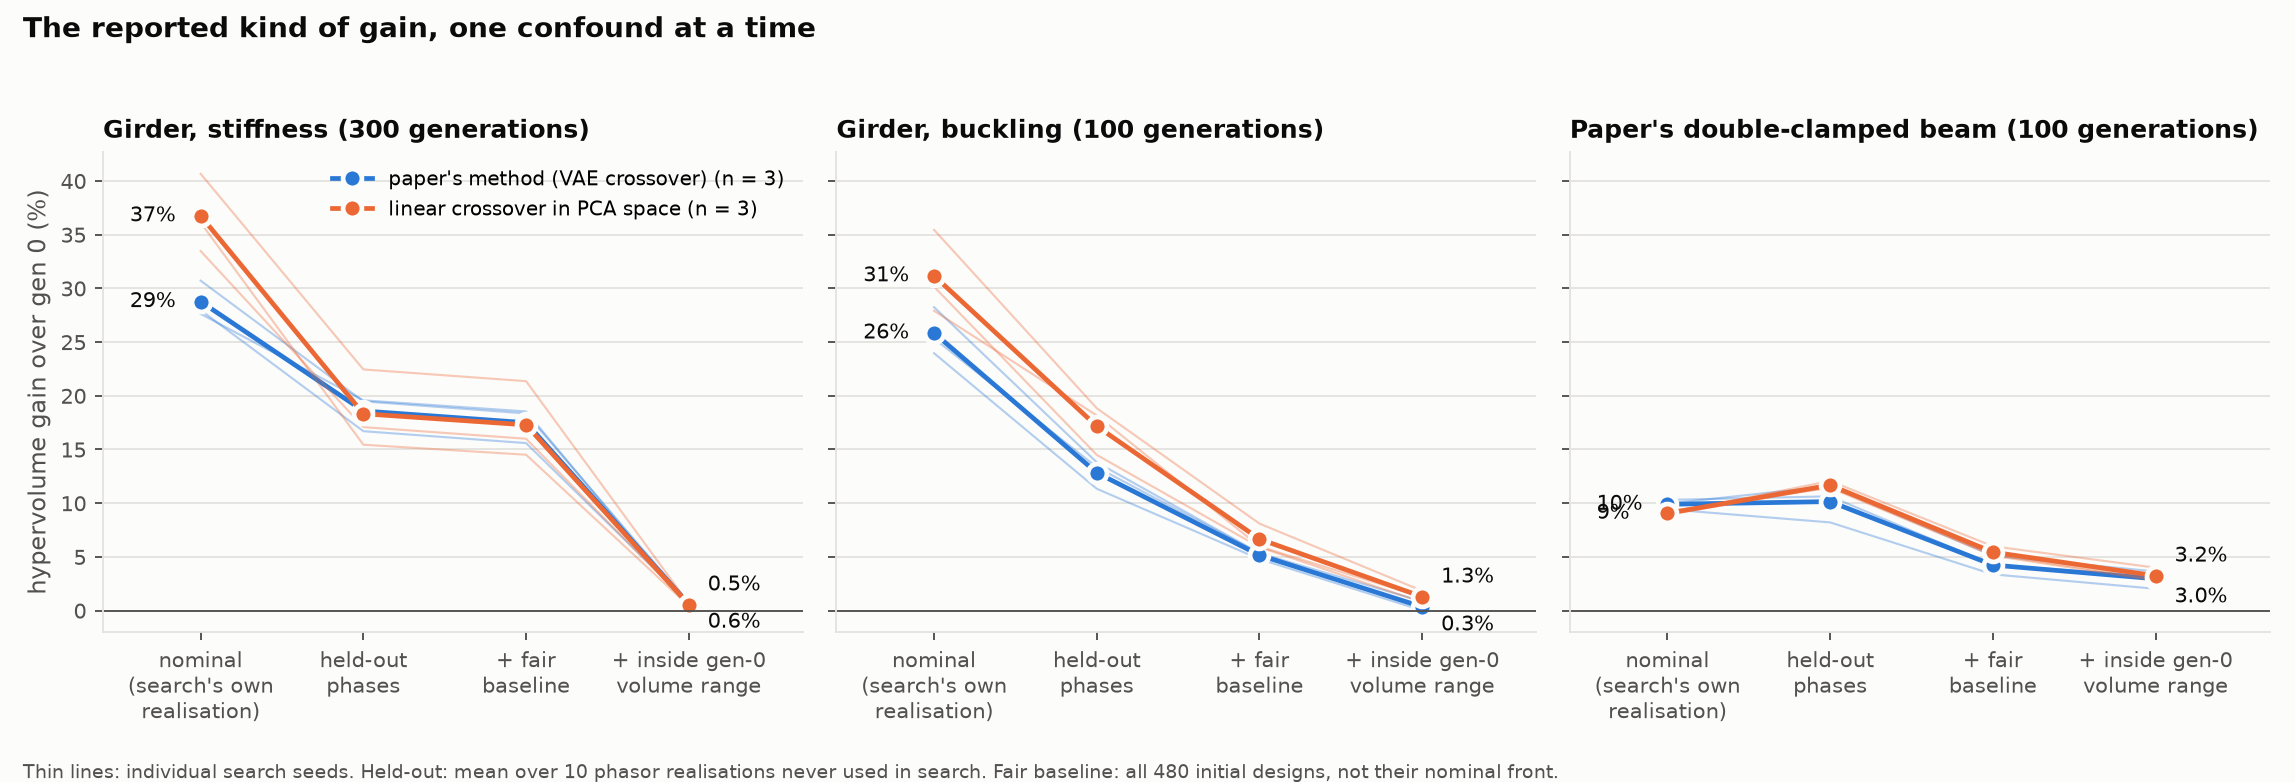
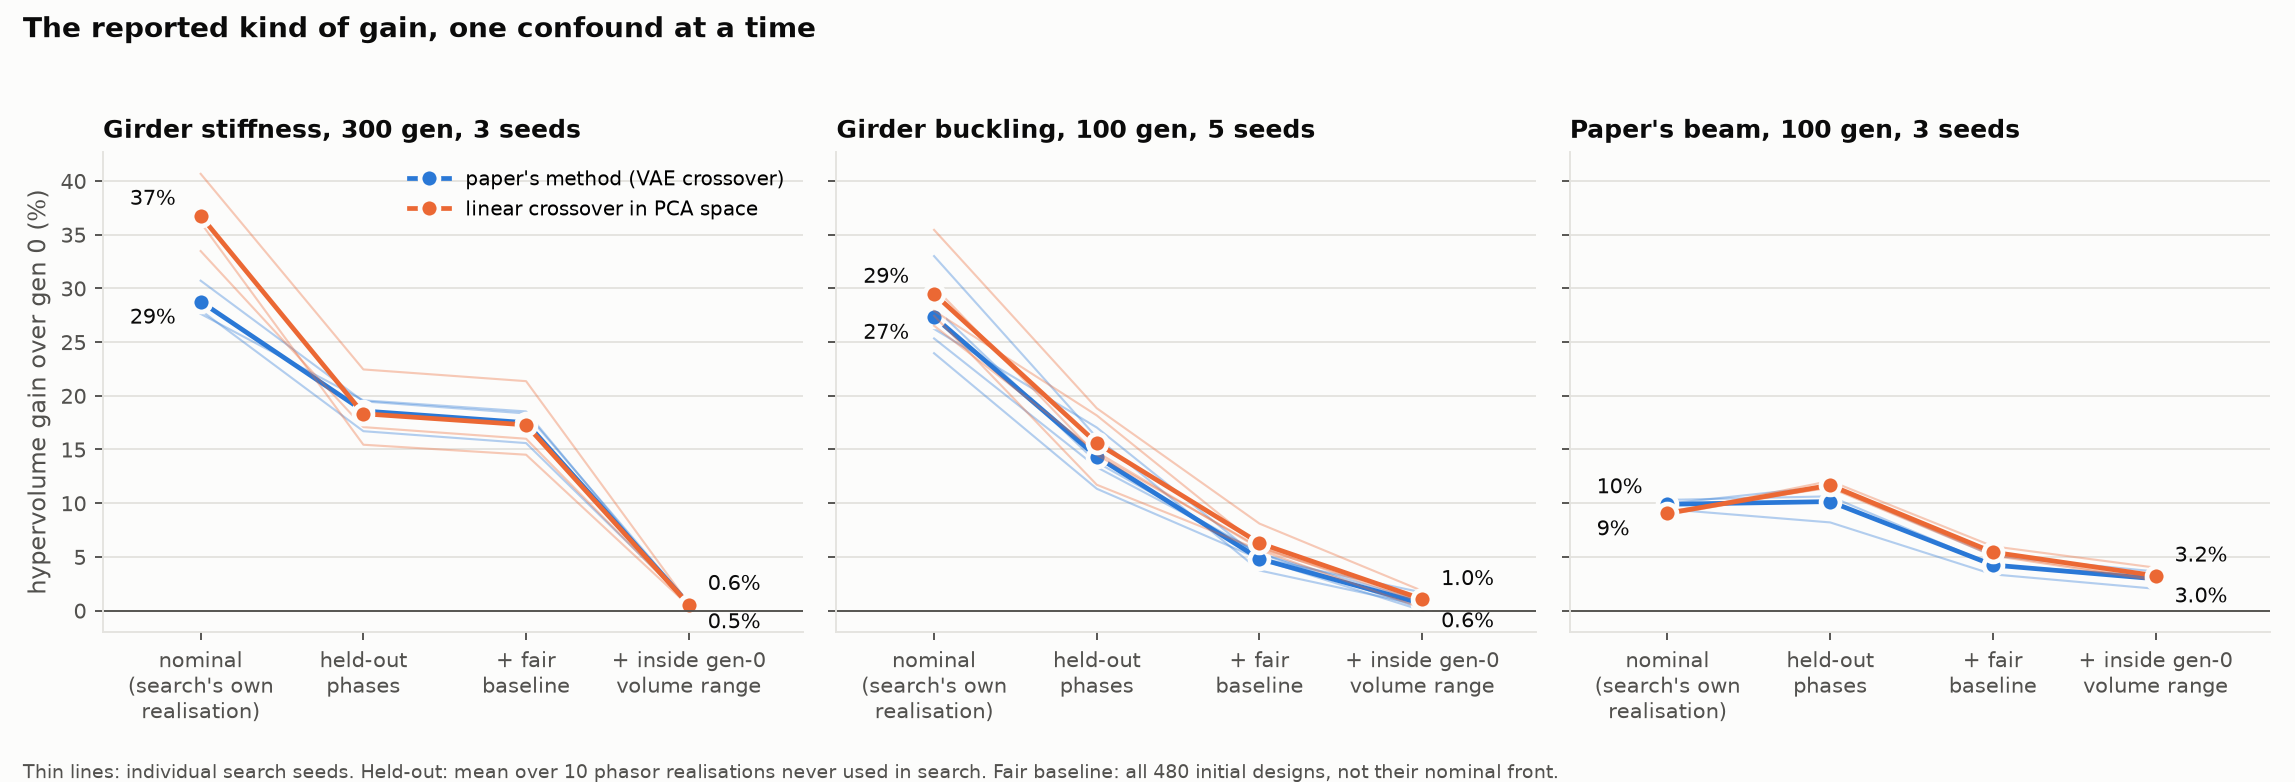
trial 14 done: README (results, interpretation, diagnostics), final figures, index

diff --git a/experiments/2026-11-17-dehom-ea-followups/fig_decomposition.py b/experiments/2026-11-17-dehom-ea-followups/fig_decomposition.py
@@ -12,14 +12,19 @@ LAB = {"FULL": "paper's method (VAE crossover)", "PCA": "linear crossover in PCA
 STAGES = ["nominal", "ho_front", "ho_all", "ho_all_inrng"]
 XT = ["nominal\n(search's own\nrealisation)", "held-out\nphases", "+ fair\nbaseline", "+ inside gen-0\nvolume range"]
 rows = json.load(open("results/decomposition.json"))
-blocks = [("Girder, stiffness (300 generations)", "stiff", 300, [0, 1, 2]),
-          ("Girder, buckling (100 generations)", "buck", 100, [0, 1, 2, 3, 4]),
-          ("Paper's double-clamped beam (100 generations)", "umax", 100, [0, 1, 2])]
+blocks = [("Girder stiffness, 300 gen", "stiff", 300, [0, 1, 2]),
+          ("Girder buckling, 100 gen", "buck", 100, [0, 1, 2, 3, 4]),
+          ("Paper's beam, 100 gen", "umax", 100, [0, 1, 2])]
 fig, axs = plt.subplots(1, 3, figsize=(13.5, 4.6), sharey=True)
 x = np.arange(len(STAGES))
 for ax, (title, obj, gen, seeds) in zip(axs, blocks):
     ax.set_facecolor(SURF)
+    means = {}
     for arm in ("FULL", "PCA"):
+        Rm = [r for r in rows if r["run"] in [f"{obj}_{arm}_s{s}" for s in seeds] and r["gen"] == gen]
+        means[arm] = np.mean([[100 * r[s] for s in STAGES] for r in Rm], axis=0)
+    for arm in ("FULL", "PCA"):
+        other = "PCA" if arm == "FULL" else "FULL"
         R = [r for r in rows if r["run"] in [f"{obj}_{arm}_s{s}" for s in seeds] and r["gen"] == gen]
         if not R:
             continue
@@ -27,13 +32,14 @@ for ax, (title, obj, gen, seeds) in zip(axs, blocks):
         for y in Y:
             ax.plot(x, y, color=COL[arm], lw=0.9, alpha=0.35)
         m = Y.mean(0)
-        ax.plot(x, m, color=COL[arm], lw=2, marker="o", ms=8, mec=SURF, mew=2, label=f"{LAB[arm]} (n = {len(R)})")
-        ax.annotate(f"{m[-1]:.1f}%", (x[-1], m[-1]), xytext=(8, 6 if arm == "PCA" else -10), textcoords="offset points",
+        ax.plot(x, m, color=COL[arm], lw=2, marker="o", ms=8, mec=SURF, mew=2, label=LAB[arm])
+        nseed = len(R)
+        ax.annotate(f"{m[-1]:.1f}%", (x[-1], m[-1]), xytext=(8, 6 if means[arm][-1] >= means[other][-1] else -10), textcoords="offset points",
                     fontsize=9, color=INK)
-        ax.annotate(f"{m[0]:.0f}%", (x[0], m[0]), xytext=(-30, 0), textcoords="offset points", fontsize=9, color=INK, va="center")
+        ax.annotate(f"{m[0]:.0f}%", (x[0], m[0]), xytext=(-30, 7 if means[arm][0] >= means[other][0] else -7), textcoords="offset points", fontsize=9, color=INK, va="center")
     ax.axhline(0, color=INK2, lw=0.8)
     ax.set_xticks(x); ax.set_xticklabels(XT, fontsize=8.5, color=INK2)
-    ax.set_title(title, loc="left", fontsize=10.5, fontweight="bold", color=INK)
+    ax.set_title(f"{title}, {nseed} seeds", loc="left", fontsize=10.5, fontweight="bold", color=INK)
     for s in ("top", "right"):
         ax.spines[s].set_visible(False)
     for s in ("left", "bottom"):

diff --git a/experiments/2026-11-17-dehom-ea-followups/README.md b/experiments/2026-11-17-dehom-ea-followups/README.md
@@ -2,62 +2,63 @@
 kind: experiment
 slug: "dehom-ea-followups"
 date: "2026-11-17"
-status: running     # running | done | abandoned
-hypothesis: ""
-result: ""
-related_concepts: []
-related_literature: []
-tags: []
-# members: only set when kind: ensemble — list parent experiment slugs.
-# parent:  only set when this experiment was produced via /expand.
+status: done
+hypothesis: "Follow-ups to trial 13 under a clean evaluator and held-out-realisation grading (PREREGISTRATION.md H1–H9 + Addenda A, B): does the evolutionary de-homogenisation gain (Xu et al. 2026) survive held-out phasor realisations, a fair baseline and front-extension controls; does the paper's VAE crossover beat linear PCA crossover; do latent size, encoding, robust selection or a lottery null change the picture; and how do the lattices compare with SIMP — on the girder (compliance, buckling) and the paper's own double-clamped beam."
+result: "The EA improves held-out hypervolume on every seed and problem (H1 pass), but most of the reported-style gain is not design improvement: nominal gains of 27–37 % (girder) fall to 0.5–1.0 % in-range once held-out realisations, a full-population baseline and the volume range are controlled; at matched volume the EA lowers compliance 2–9 %, raises BLF ≤ 2 %, beam displacement 1–2 %, and its low-volume extension is matched by running the LF optimiser at lower targets. The paper's VAE and linear PCA crossover are indistinguishable held-out on every block (H2), though PCA leads nominally by 5–9 pp; latent size and raw-θ encoding don't matter (H3); robust selection gives nothing (H5); SIMP beats the best lattice at every graded volume in compliance and BLF (H7). Before any run, trial 13's evaluator noise was traced to our decoder (θ/θ+π tie), fixed; evaluator 10× faster."
+related_concepts: ["physics-grounded-evaluation", "agentic-design-optimization"]
+related_literature: ["xu2025evolutionary", "woldseth2024dehomtop808"]
+tags: ["topology-optimization", "dehomogenization", "replication", "held-out", "winner's-curse", "hypervolume", "trial-14"]
 ---
 
-# dehom-ea-followups
+# dehom-ea-followups (trial 14)
 
-## Hypothesis
+Pre-registration `PREREGISTRATION.md` (frozen before any arm; Addendum A budget, Addendum B post-hoc and
+declared). Chronology and every decision: `log.md`. Interim brief: `RESULTS_INTERIM.md`. Paper skeleton:
+`docs/paper/outline.md` + `docs/paper/figs/`. Companion: `experiments/2026-11-17-dehom-dcbeam/` (the paper's beam).
 
-State precisely what you expect, before running anything.
+## Setup changes vs trial 13
+- Decoder fix (θ vs θ + π tie → realisation chosen by rounding; ~9 % per-design evaluator noise; found by a
+  2×2: deHomTop808's algorithm is stable on raw fields, our encoding was not).
+- Evaluator: factorise once (pypardiso refactorised every eigsh iteration) + solid-only system (no ersatz
+  void): 10× faster; CalculiX spot-check ρ = 0.991 / 0.992 on 30 trial-14 front designs.
+- Primary metric: held-out HV over 10 phasor seeds never used in search.
 
-## Setup
+## Result (results/heldout_summary.json, decomposition.json, paired_stats.json, paper_tables.json)
 
-- Config: `config.yaml`
-- Code: (entry point)
-- Data: (DVC-tracked path, validation split only during search)
+| | verdict | evidence |
+|---|---|---|
+| H1 EA gain > 0 held-out | PASS | girder S +16.7–19.6 % (gen 300), B +11.3–18.8 %, beam +8.2–12.1 % |
+| H2 VAE vs PCA | no difference (4/4 blocks) | S gen 300 d = −0.3 pp [−7.4, 6.9]; S gen 100 (n = 5) +0.8 [−2.2, 3.7]; B (n = 5) +1.3 [−4.7, 7.3]; beam +1.5 [−2.6, 5.6] |
+| H3 latent / encoding | "artefact" (rule) | VAE32 18.1, VAE64 13.5, RAWTH 17.8 vs PCA 15.3 % (gen 100, s0–s1) |
+| H4 search > lottery | PASS (primary) | LOTTERY 5.0 % vs ~15–16 %; in range LOTTERY 0.3 % vs search 0.4–0.7 % (Addendum B) |
+| H5 robust selection | no difference | ROB3 12.8 / 15.5 % vs PCA 22.4 / 15.4 % at 33 000 evals |
+| H6 novelty, H9 LLM pilot | cut (Addendum B) | — |
+| H7 lattice vs SIMP | SIMP wins | compliance 4/4, BLF 4/4 at vf 0.30–0.45 |
+| H8 beam | H1 PASS, H2 no difference | see H1/H2 |
 
-## Result
-
-Fill in after the run. Point at `metrics.json` (validation split — this
-is the search signal and the file every other skill reads). A separate
-`final_metrics.json` holds held-out test-split numbers and is written
-only by the `dvc repro final_eval` pass at chain end. See
-`~/.claude/rules/evaluation.md`.
+Addendum B decomposition (girder S / B / beam, mean of arms): nominal 29–37 / 27–29 / 9–10 % → held-out
+18 / 14–16 / 10–12 % → fair baseline 17 / 5–6 / 4–5 % → in range 0.5–0.6 / 0.6–1.0 / 3.0–3.2 %.
+Matched-volume attainment in range: S 0.91–0.98, B 0.98–1.00, beam 0.98–0.99. Extension vs LF at
+V0 0.10–0.25: median ratio ~1.1 (S), ~1.1 (B), 0.95–0.99 (beam). Winner's curse (median optimism of the
+reported front): S gen-0 ×1.08, FULL ×1.28, PCA ×1.41; B ×1.40 / 1.68 / 1.92; beam ≈ ×1.05–1.10; the
+same under translation-only realisations.
 
 ## Interpretation
-
-What did you actually learn? What surprised you?
+- The search is real (beats a lottery and a no-selection null) but small at matched volume; the
+  headline-style HV gain is mostly (i) fitting the single phasor realisation the search sees, (ii) a
+  baseline selected on that realisation, (iii) extension below the initial population's volume range.
+- Operator conclusions drawn from nominal HV can be wrong: trial 13's "VAE hurts" was PCA mining
+  realisation luck more effectively (higher optimism, 16 % of its front disconnects under re-draws).
+- The beam is barely realisation-sensitive (optimism ~×1.05), the girder strongly — the size of the
+  winner's curse is problem-dependent.
 
 ## Diagnostics
-
-Fill in after the run. One line per field; leave `n/a` rather than
-blank. `next_candidates` must list ≥2 concrete one-sentence proposals.
-Every concrete claim below needs a **citation anchor** — a code
-reference like `train.py:42-58`, a metrics file path like
-`metrics.json:val_acc`, or a wikilink into `literature/`. Unanchored
-assertions are flagged by `/lint` (Kosmos, arXiv 2511.02824).
-
-Unless otherwise noted, metric numbers here reference `metrics.json`
-(validation split). Cite `final_metrics.json` only if this experiment
-is itself the final-scoring pass.
-
-- intended_effect_confirmed: <yes | no | partial> — <one-line evidence with anchor>
-- leakage_check: <method used> — <finding>
-- overfitting_signal: train=<x> val=<y> gap=<z> — <interpretation> (from metrics.json)
-- delta_from_prior: vs <related_prior_slug>, <metric_delta> attributed to <cause> (metrics.json)
-- unexpected_findings: <one or two sentences, or "none">
+- intended_effect_confirmed: partial — H1 yes; the paper's operator claims not supported (`results/paired_stats.json`)
+- leakage_check: held-out seeds 5000–5009 never used in search (`heldout.py:HELDOUT_SEEDS`, `run_arm.py` uses phase_seed=None or random ROB3 seeds); evaluator hashes logged at freeze (`log.md` 18:30)
+- overfitting_signal: held-out/nominal ratio 0.38–0.71 on the girder (`results/heldout_summary.json`); per-design optimism p90 up to ×37 (`results/paper_tables.json:fig5_optimism`)
+- delta_from_prior: vs trial 13, "VAE hurts −10 pp" reversed to no difference once graded held-out (`results/paired_stats.json`); evaluator noise from the decoder bug removed (`scratch/diag2x2.json`)
+- unexpected_findings: the initial population's own nominal front is winner's-cursed (buckling ×1.40); one-pixel-neck artefacts recur in evolved buckling fronts (`results/ccx_spot.json`)
 - next_candidates:
-  - <one-sentence proposal 1>
-  - <one-sentence proposal 2>
-
-## Follow-up
-
-- ...
+  - Beam FULL at 300 generations (queued, `../2026-11-17-dehom-dcbeam/campaign300.sh`) for the one number comparable to the paper's 15.1 %.
+  - Port branch closure (deHomTop808) and measure how much of the in-range gain it absorbs.
+  - Robust selection with more draws (K = 10) or elite-only resampling, matched evaluations.

diff --git a/_meta/index.md b/_meta/index.md
@@ -100,8 +100,8 @@ Triage archived → `raw/_candidates/_done/2026-06-25-gpu-differentiable-physics
 - `experiments/2026-11-15-dic-plasticity-identification/` — **done** (trial 11): Hill-48 + Voce identified from Sandia 304L DIC, held-out geometries 12 of 12; uniaxial baseline also passes.
 - `experiments/2026-11-15-metamaterial-inverse-design-hard/` — **done** (trial 12): harder targets miss, robust design no gain, snap remedy 1 of 11, relaxed idealisations break trial 9's passes.
 - `experiments/2026-11-16-evolutionary-dehomogenization/` — **done** (trial 13): reproduction of Xu et al. 2026 (evolutionary phasor de-homogenisation) on a new girder; EA gain replicates (+19.5 % / +14.9 % HV) and beats a matched budget of extra LF designs; mutation inert, VAE hurts (diversity collapse); SIMP still wins on buckling; pixel evaluator ranks right but one artefact was selected.
-- `experiments/2026-11-17-dehom-ea-followups/` — **running** (trial 14): three follow-ups to trial 13 — diversity-preserving recombination at 300 generations, an adversarial re-realisation archive, and problem-grain mutation by an LLM vs a random operator.
-- `experiments/2026-11-17-dehom-dcbeam/` — **running** (trial 14b): the paper's own double-clamped beam (vf, umax) for H8 of trial 14.
+- `experiments/2026-11-17-dehom-ea-followups/` — **done** (trial 14): clean evaluator + held-out grading; EA gain real but mostly realisation fitting, a selected baseline and front extension (in-range ~0.5–3 %); VAE ≡ linear PCA crossover held-out; SIMP wins; decoder bug from trial 13 found and fixed. Paper skeleton in docs/paper/.
+- `experiments/2026-11-17-dehom-dcbeam/` — **running** (trial 14b; 100-gen arms done, FULL ×3 at 300 gen pending): the paper's own double-clamped beam (vf, umax) for H8 of trial 14.
 
 ## QA review surface
 

diff --git a/_meta/log.md b/_meta/log.md
@@ -37,3 +37,4 @@ skills; read by `/lint`.
 2026-11-17 02:11 trial-13 done: evolutionary de-homogenisation reproduction (Xu et al. 2026) on a new girder; H1/H2/H6 pass, H3/H4/H5/H7 miss; review docs/qa/trial-13-evolutionary-dehomogenization/
 2026-11-17 wrap trial 13 evolutionary de-homogenisation reproduction done (H1/H2/H6 pass, H3/H4/H5/H7 miss)
 2026-11-17 new-experiment dehom-ea-followups
+2026-11-18 07:50 trial-14 done: held-out grading overturns trial-13 operator result; decomposition shows reported-style HV gain is mostly realisation fitting, baseline selection and extension; paper outline in docs/paper/
